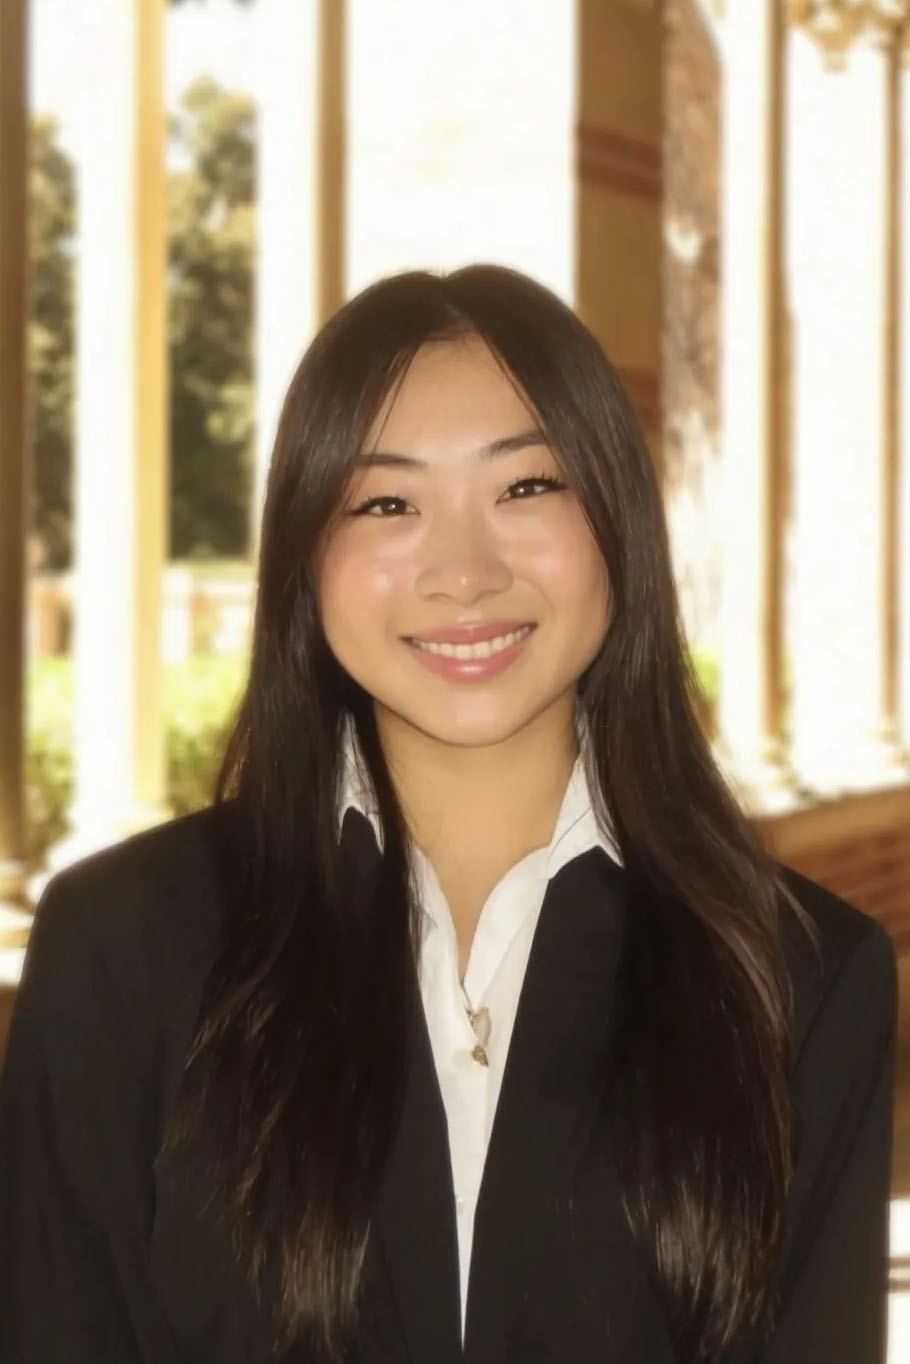
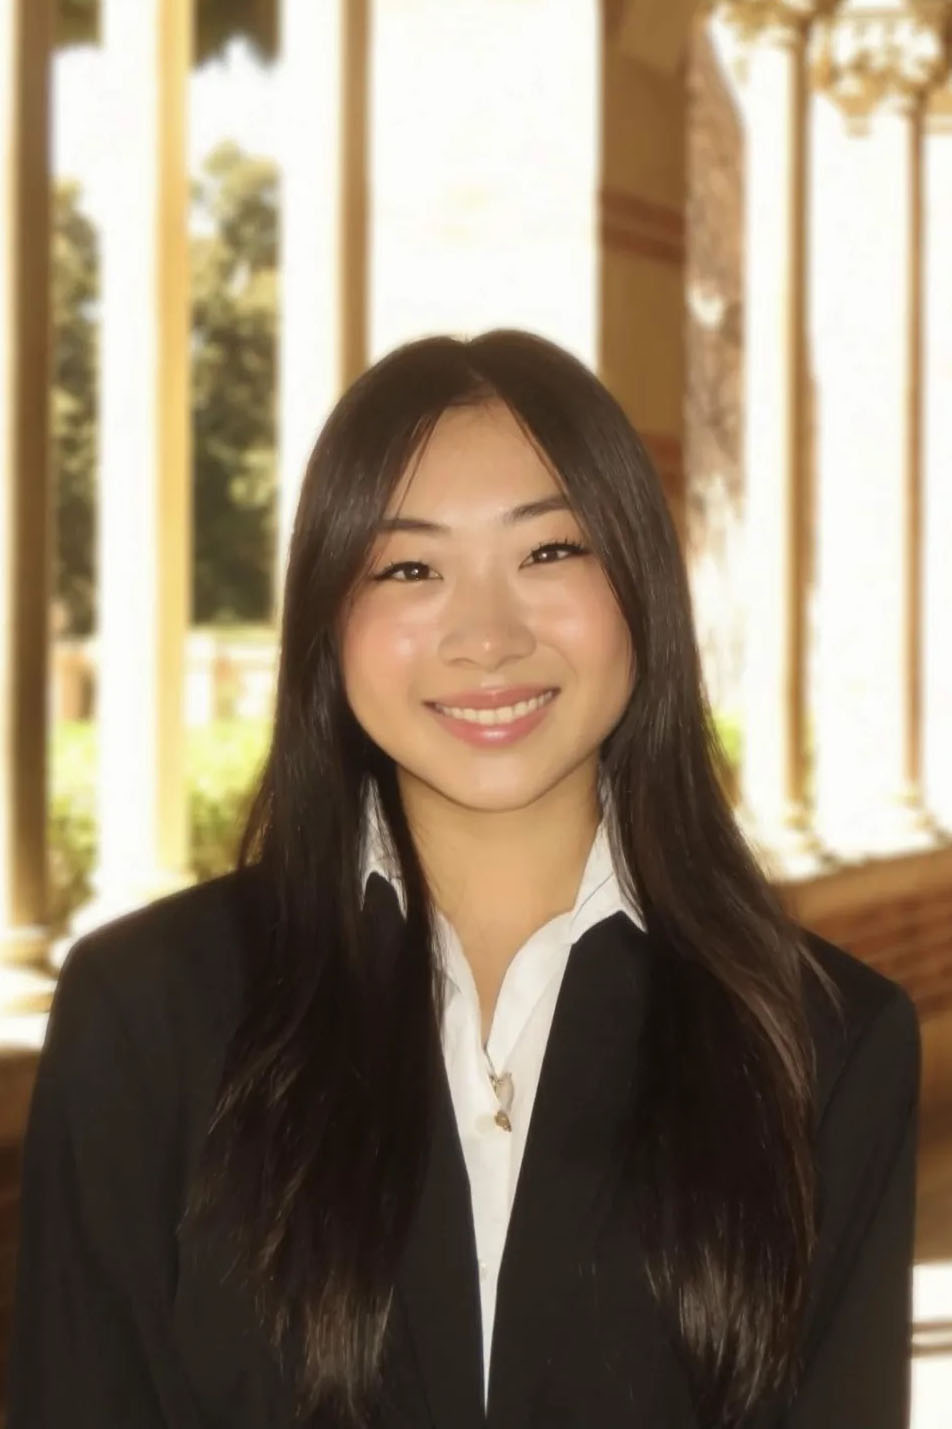
fix images

diff --git a/team.html b/team.html
@@ -5,7 +5,7 @@ permalink: /team/
 nav: team
 ---
 
-<section class="hero-wrap hero-wrap-2" style="background-image: url('/images/NewPics/TeamPhoto.jpeg');" data-stellar-background-ratio="0.5">
+<section class="hero-wrap hero-wrap-2" style="background-image: url('/images/NewPics/TeamAtComp.jpeg');" data-stellar-background-ratio="0.5">
 	<div class="overlay"></div>
 	<div class="container">
 	<div class="row no-gutters slider-text align-items-end">
@@ -67,7 +67,7 @@ nav: team
 						</div>
 					</div>
 	          	</div>
-        	</div>
+        	</div>z
 
 			<!-- start mech tech director section -->
 			<div class="col-lg-3 col-sm-6">

diff --git a/index.html b/index.html
@@ -19,7 +19,7 @@ nav: home
 			</div>
 		</div>
 
-		<div class="slider-item" style="background-image:url(images/NewPics/PushingCar.jpeg);">
+		<div class="slider-item" style="background-image:url(images/NewPics/CarBeingPushed.jpeg);">
 			<div class="overlay"></div>
 			<div class="container">
 				<div class="row no-gutters slider-text align-items-center justify-content-center">
